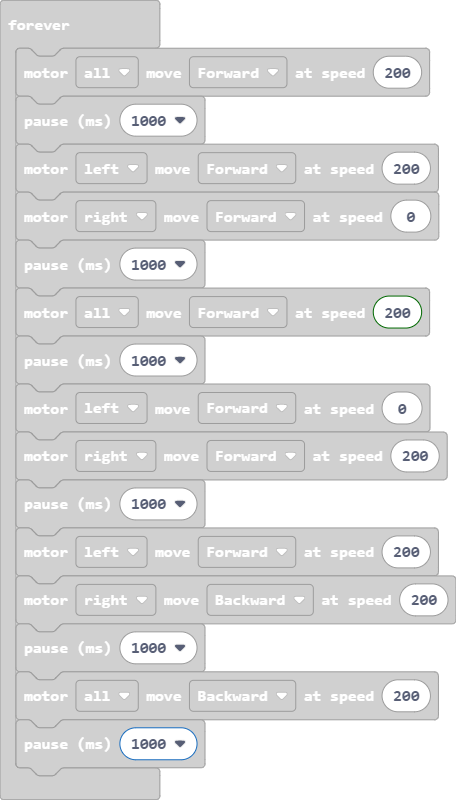
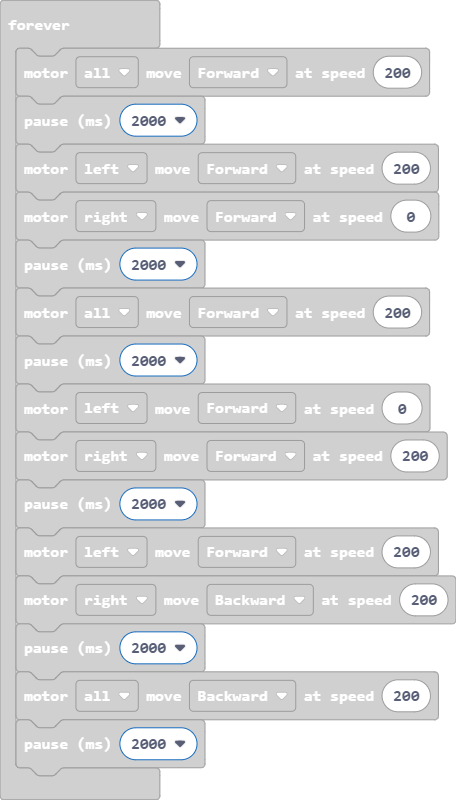
Update main.blocks, main.ts

diff --git a/main.ts b/main.ts
@@ -1,17 +1,17 @@
 basic.forever(function () {
     maqueen.motorRun(maqueen.Motors.All, maqueen.Dir.CW, 200)
-    basic.pause(1000)
+    basic.pause(2000)
     maqueen.motorRun(maqueen.Motors.M1, maqueen.Dir.CW, 200)
     maqueen.motorRun(maqueen.Motors.M2, maqueen.Dir.CW, 0)
-    basic.pause(1000)
+    basic.pause(2000)
     maqueen.motorRun(maqueen.Motors.All, maqueen.Dir.CW, 200)
-    basic.pause(1000)
+    basic.pause(2000)
     maqueen.motorRun(maqueen.Motors.M1, maqueen.Dir.CW, 0)
     maqueen.motorRun(maqueen.Motors.M2, maqueen.Dir.CW, 200)
-    basic.pause(1000)
+    basic.pause(2000)
     maqueen.motorRun(maqueen.Motors.M1, maqueen.Dir.CW, 200)
     maqueen.motorRun(maqueen.Motors.M2, maqueen.Dir.CCW, 200)
-    basic.pause(1000)
+    basic.pause(2000)
     maqueen.motorRun(maqueen.Motors.All, maqueen.Dir.CCW, 200)
-    basic.pause(1000)
+    basic.pause(2000)
 })
